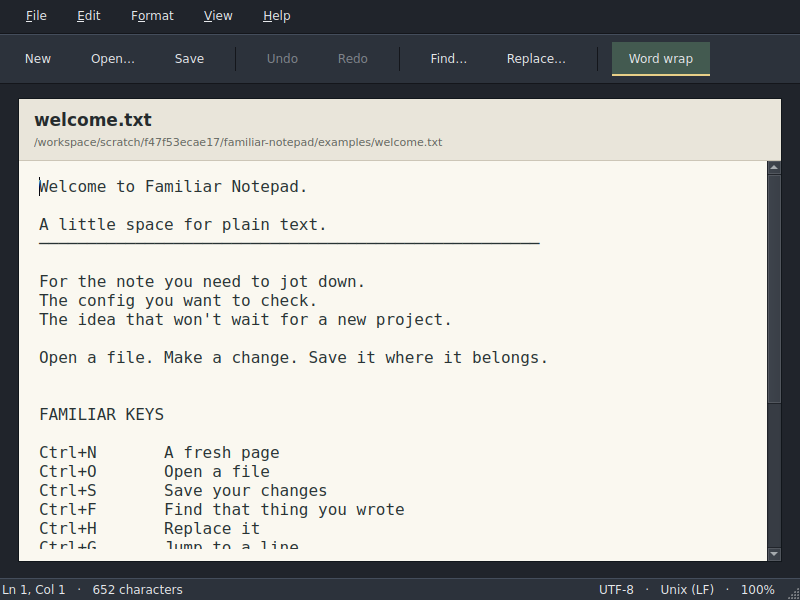
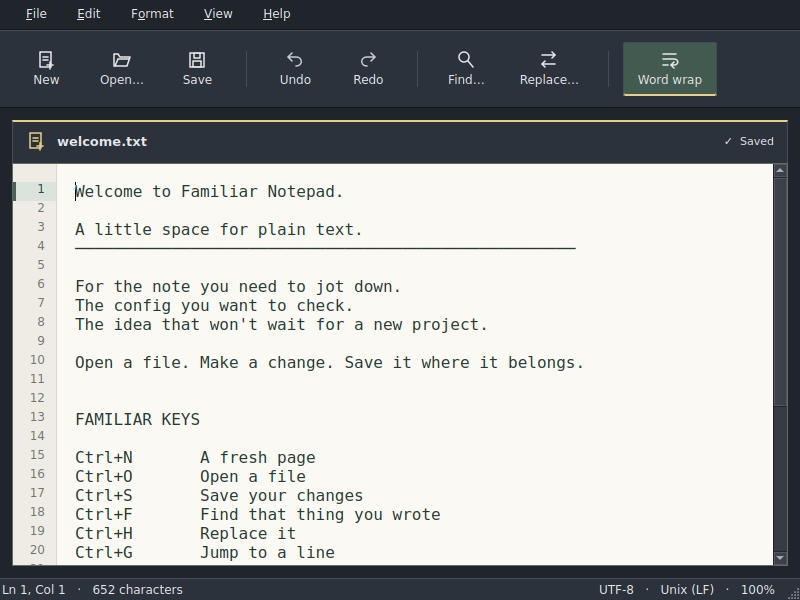
Polish Familiar Notepad controls and document states (#2)

Changed region(s): [[0.0, 0.0, 1.0, 0.96]]

diff --git a/src/window.cpp b/src/window.cpp
@@ -1,5 +1,7 @@
 #include "window.h"
 #include "editor.h"
+#include "icons.h"
+#include <QGridLayout>
 #include <QtConcurrent>
 #include <QApplication>
 #include <QActionGroup>
@@ -24,26 +26,26 @@
 Window::Window(bool readOnly) : readOnly_(readOnly) {
     resize(1120, 760); setMinimumSize(640, 400);
     setWindowIcon(QIcon(":/notepad.svg"));
-    auto *body = new QWidget; auto *layout = new QVBoxLayout(body); layout->setContentsMargins(18, 14, 18, 16); layout->setSpacing(0);
-    auto *header = new QWidget; header->setObjectName("documentHeader"); auto *headerLayout = new QVBoxLayout(header); headerLayout->setContentsMargins(16, 12, 16, 12);
+    auto *body = new QWidget; auto *layout = new QVBoxLayout(body); layout->setContentsMargins(12, 12, 12, 12); layout->setSpacing(0);
+    auto *header = new QWidget; header->setObjectName("documentHeader"); auto *headerLayout = new QHBoxLayout(header); headerLayout->setContentsMargins(14, 0, 14, 0); header->setFixedHeight(43);
     heading_ = new QLabel; heading_->setObjectName("documentTitle"); location_ = new QLabel; location_->setObjectName("documentPath");
-    heading_->setTextFormat(Qt::PlainText); location_->setTextFormat(Qt::PlainText);
-    location_->setTextInteractionFlags(Qt::TextSelectableByMouse); headerLayout->addWidget(heading_); headerLayout->addWidget(location_);
+    heading_->setMinimumWidth(0);heading_->setSizePolicy(QSizePolicy::Ignored,QSizePolicy::Preferred);heading_->setTextFormat(Qt::PlainText); location_->setTextFormat(Qt::PlainText);
+    location_->setMinimumWidth(140);location_->setAlignment(Qt::AlignRight|Qt::AlignVCenter);location_->setTextInteractionFlags(Qt::TextSelectableByMouse); auto *fileIcon = new QLabel; fileIcon->setPixmap(toolIcon("new", QColor("#e8cf87")).pixmap(20,20)); headerLayout->addWidget(fileIcon); headerLayout->addSpacing(5); headerLayout->addWidget(heading_,1); headerLayout->addWidget(location_);
     layout->addWidget(header);
     notice_ = new QLabel; notice_->setTextFormat(Qt::PlainText); notice_->setWordWrap(true); notice_->setObjectName("notice"); notice_->hide(); layout->addWidget(notice_);
-    findBar_ = new QWidget; auto *search = new QHBoxLayout(findBar_); search->setContentsMargins(10, 8, 10, 8);
+    findBar_ = new QWidget; auto *search = new QGridLayout(findBar_); findBar_->setObjectName("searchPanel"); search->setContentsMargins(10, 8, 10, 8);
     find_ = new QLineEdit; find_->setPlaceholderText("Find text"); find_->setAccessibleName("Find text"); replacement_ = new QLineEdit; replacement_->setPlaceholderText("Replace with"); replacement_->setAccessibleName("Replacement text");
     case_ = new QCheckBox("Case"); whole_ = new QCheckBox("Whole word");
-    search->addWidget(find_, 1); search->addWidget(replacement_, 1); search->addWidget(case_); search->addWidget(whole_);
-    auto button = [search, this](QString text, auto action) {auto *b = new QPushButton(text); search->addWidget(b); connect(b, &QPushButton::clicked, this, action); return b;};
-    button("Next", [this]{findNext();});
-    auto *all = button("Replace all", [this]{auto flags = QTextDocument::FindFlags{}; if(case_->isChecked()) flags |= QTextDocument::FindCaseSensitively; if(whole_->isChecked()) flags |= QTextDocument::FindWholeWords; int n = editor_->replaceAll(find_->text(), replacement_->text(), flags); statusBar()->showMessage(QString("Replaced %1 occurrence(s)").arg(n), 4000);}); all->setObjectName("replaceAll");
-    button("Close", [this]{findBar_->hide(); editor_->setFocus();});
+    search->addWidget(find_,0,0,1,2); search->addWidget(replacement_,1,0,1,2); search->addWidget(case_,2,0); search->addWidget(whole_,2,1); search->setColumnStretch(1,1);
+    auto button = [search, this](QString text, auto action) {auto *b = new QPushButton(text); b->setMinimumWidth(80); connect(b, &QPushButton::clicked, this, action); return b;};
+    search->addWidget(button("Previous", [this]{findNext(true);}),0,2); search->addWidget(button("Next", [this]{findNext();}),0,3);
+    auto *all = button("Replace all", [this]{auto flags = QTextDocument::FindFlags{}; if(case_->isChecked()) flags |= QTextDocument::FindCaseSensitively; if(whole_->isChecked()) flags |= QTextDocument::FindWholeWords; int n = editor_->replaceAll(find_->text(), replacement_->text(), flags); statusBar()->showMessage(QString("Replaced %1 occurrence(s)").arg(n), 4000);}); all->setObjectName("replaceAll"); search->addWidget(all,1,2,1,2);
+    search->addWidget(button("Close", [this]{findBar_->hide(); editor_->setFocus();}),2,3);
     layout->addWidget(findBar_); findBar_->hide();
     editor_ = new Editor; editor_->setReadOnly(readOnly_); layout->addWidget(editor_, 1); setCentralWidget(body);
     auto *file = menuBar()->addMenu("&File"); auto *edit = menuBar()->addMenu("&Edit"); auto *formatMenu = menuBar()->addMenu("F&ormat"); auto *view = menuBar()->addMenu("&View"); auto *help = menuBar()->addMenu("&Help");
-    auto *bar = addToolBar("Main toolbar"); bar->setMovable(false); bar->setToolButtonStyle(Qt::ToolButtonTextOnly);
-    auto add = [this](QMenu *menu, QString text, QKeySequence key, auto slot) {auto *a = menu->addAction(text); a->setShortcut(key); connect(a, &QAction::triggered, this, slot); return a;};
+    auto *bar = addToolBar("Main toolbar"); bar->setMovable(false); bar->setToolButtonStyle(Qt::ToolButtonTextUnderIcon); bar->setIconSize(QSize(20,20));
+    auto add = [this](QMenu *menu, QString text, QKeySequence key, auto slot) {auto *a = menu->addAction(text); a->setShortcut(key); a->setToolTip(text.remove('&')+(key.isEmpty()?QString():"  "+key.toString(QKeySequence::NativeText))); connect(a, &QAction::triggered, this, slot); return a;};
     bar->addAction(add(file, "&New", QKeySequence::New, [this]{guard([this]{newFile();});}));
     bar->addAction(add(file, "&Open…", QKeySequence::Open, [this]{chooseOpen();}));
     saveAction_ = add(file, "&Save", QKeySequence::Save, [this]{save();}); bar->addAction(saveAction_);
@@ -69,6 +71,9 @@ Window::Window(bool readOnly) : readOnly_(readOnly) {
     for(int i=0;i<3;++i){auto value=Note::Ending(i);auto *a=eol->addAction(Note::endingName(value));a->setCheckable(true);a->setData(i);eolGroup->addAction(a);connect(a,&QAction::triggered,this,[this,value]{if(readOnly_||busy_)return;file_.ending=value;formatDirty_=true;updateStatus();draftTimer_->start();});}
     connect(eol,&QMenu::aboutToShow,this,[this,eolGroup]{for(auto *a:eolGroup->actions())a->setChecked(a->data().toInt()==int(file_.ending));});
     add(view,"Zoom &in",QKeySequence::ZoomIn,[this]{if(editor_->font().pointSize()<40)editor_->zoomIn();updateStatus();}); add(view,"Zoom &out",QKeySequence::ZoomOut,[this]{if(editor_->font().pointSize()>8)editor_->zoomOut();updateStatus();}); add(view,"&Reset zoom",QKeySequence("Ctrl+0"),[this]{auto f=editor_->font();f.setPointSize(fontSize_);editor_->setFont(f);updateStatus();});
+    auto *lines = add(view, "&Line numbers", {}, [this]{editor_->setLineNumbersVisible(!editor_->lineNumbersVisible());}); lines->setCheckable(true);lines->setChecked(true);
+    const QStringList glyphs{"new","open","save","undo","redo","find","replace","wrap"}; int glyphIndex=0;
+    for(auto *action:bar->actions())if(!action->isSeparator()){const auto glyph=glyphs.value(glyphIndex++);action->setProperty("familiarGlyph",glyph);action->setIcon(toolIcon(glyph,palette().color(QPalette::ButtonText)));}
     add(help,"&About Familiar Notepad",{},[this]{QMessageBox::about(this,"Familiar Notepad",QString("Familiar Notepad %1\n\nA little space for plain text.\nNative Qt. Local files. No account.\n\nMIT licence · Tom Ballard").arg(NOTEPAD_VERSION));});
     position_=new QLabel;format_=new QLabel;statusBar()->addWidget(position_,1);statusBar()->addPermanentWidget(format_);
     draftTimer_=new QTimer(this);draftTimer_->setSingleShot(true);draftTimer_->setInterval(1000);connect(draftTimer_,&QTimer::timeout,this,[this]{writeDraft();});
@@ -83,13 +88,13 @@ bool Window::dirty()const{return editor_->document()->isModified()||formatDirty_
 void Window::updateStatus(){
     const auto name=file_.path.isEmpty()?QString("Untitled"):QFileInfo(file_.path).fileName();
     setWindowTitle(QString("%1%2 — Familiar Notepad%3").arg(dirty()?"* ":"",name,readOnly_?" [read only]":""));
-    heading_->setText(name+(dirty()?"  •":""));location_->setText(file_.path.isEmpty()?"A little space for plain text.":QFontMetrics(location_->font()).elidedText(file_.path,Qt::ElideMiddle,qMax(300,width()-90)));location_->setToolTip(file_.path);
+    heading_->setText(QFontMetrics(heading_->font()).elidedText(name,Qt::ElideMiddle,qMax(160,width()-230))); heading_->setToolTip(file_.path);location_->setText(busy_?"Working…":readOnly_?"Read only":dirty()?"●  Unsaved changes":file_.path.isEmpty()?"New document":"✓  Saved");location_->setToolTip(file_.path);
     auto c=editor_->textCursor();position_->setText(QString("Ln %1, Col %2   ·   %3 characters").arg(c.blockNumber()+1).arg(c.positionInBlock()+1).arg(editor_->document()->characterCount()-1));
     format_->setText(QString("%1   ·   %2   ·   %3%").arg(Note::encodingName(file_.encoding),Note::endingName(file_.ending)).arg(qRound(editor_->font().pointSizeF()/fontSize_*100)));
     saveAction_->setEnabled(!readOnly_&&!busy_);
 }
 void Window::report(const QString &message){QMessageBox::warning(this,"Familiar Notepad",message);}
-void Window::run(std::function<Note::Result()> work,std::function<void(const Note::Result&)> done){if(busy_)return;busy_=true;completion_=std::move(done);editor_->setReadOnly(true);menuBar()->setEnabled(false);for(auto *bar:findChildren<QToolBar*>())bar->setEnabled(false);watcher_.setFuture(QtConcurrent::run(std::move(work)));}
+void Window::run(std::function<Note::Result()> work,std::function<void(const Note::Result&)> done){if(busy_)return;busy_=true;completion_=std::move(done);editor_->setReadOnly(true);updateStatus();menuBar()->setEnabled(false);for(auto *bar:findChildren<QToolBar*>())bar->setEnabled(false);watcher_.setFuture(QtConcurrent::run(std::move(work)));}
 void Window::install(const Note::File &file){file_=file;editor_->setPlainText(file.text);editor_->document()->setModified(false);formatDirty_=false;draftTimer_->stop();recovery_.clear();notice_->hide();updateStatus();}
 void Window::newFile(){install({});editor_->setFocus();}
 void Window::guard(std::function<void()> next){if(busy_)return;if(!dirty()){next();return;}auto choice=QMessageBox::question(this,"Save changes?","Save changes to this document before continuing?",QMessageBox::Save|QMessageBox::Discard|QMessageBox::Cancel,QMessageBox::Save);if(choice==QMessageBox::Save)save(false,std::move(next));else if(choice==QMessageBox::Discard){next();}}
@@ -111,3 +116,8 @@ void Window::writeDraft(){if(!dirty()||readOnly_)return;auto draft=file_;draft.t
 void Window::recover(){auto paths=recovery_.available();if(paths.isEmpty()){statusBar()->showMessage("No recovery drafts available",3000);return;}QStringList labels;for(const auto&p:paths){auto r=recovery_.read(p);labels<<(r.ok?(r.file.path.isEmpty()?"Untitled":r.file.path):"Unreadable draft")+" — "+QFileInfo(p).lastModified().toString("yyyy-MM-dd HH:mm:ss")+" ["+QFileInfo(p).baseName().left(8)+"]";}bool ok;auto chosen=QInputDialog::getItem(this,"Recover a draft","Restore edits without overwriting the original file:",labels,0,false,&ok);if(!ok)return;int index=labels.indexOf(chosen);auto r=recovery_.read(paths[index]);if(!r.ok){report(r.error);return;}install(r.file);editor_->document()->setModified(true);QString error;auto draft=file_;draft.text=editor_->text();if(recovery_.write(draft,&error))recovery_.remove(paths[index]);else report("Recovered text is open, but a new recovery snapshot could not be saved: "+error);
     notice_->setText("Recovered draft. Review it, then Save or Save as. The original file has not been changed.");notice_->show();}
 void Window::closeEvent(QCloseEvent *event){if(allowClose_||(!busy_&&!dirty())){draftTimer_->stop();recovery_.clear();event->accept();return;}event->ignore();if(busy_){statusBar()->showMessage("Please wait for the file operation to finish.",3000);return;}guard([this]{draftTimer_->stop();recovery_.clear();allowClose_=true;QTimer::singleShot(0,this,[this]{close();});});}
+
+void Window::changeEvent(QEvent *event) {
+    QMainWindow::changeEvent(event);
+    if(event->type()==QEvent::PaletteChange)for(auto *action:findChildren<QAction*>()){const auto glyph=action->property("familiarGlyph").toString();if(!glyph.isEmpty())action->setIcon(toolIcon(glyph,palette().color(QPalette::ButtonText)));}
+}

diff --git a/src/theme.cpp b/src/theme.cpp
@@ -38,46 +38,32 @@ void applyTheme(QApplication *app) {
     const QString selection = colours["selection"].name();
     const QString foreground = colours["foreground"].name();
     const QString css = QString(R"css(
-        QMainWindow { background: %1; }
-        QWidget#documentHeader { background:#e9e5da; border:1px solid #11161b; border-bottom:1px solid #ccc6b7; }
-        QLabel#documentTitle { color:#252b2d; font-size:17px; font-weight:600; }
-        QLabel#documentPath { color:#62655f; font-size:11px; }
-        QPlainTextEdit#paper { background:#faf8f0; color:#283334; selection-background-color:#cddccc; selection-color:#172221; border:1px solid #11161b; border-top:none; }
-        QLabel#notice { background:#e8cf87; color:#29281f; padding:10px; }
-        QLineEdit { padding:6px; border:1px solid %3; }
-        QPushButton { padding:6px 10px; }
-        QToolButton:checked { background:%5; border-bottom:2px solid #e8cf87; }
-
-        QMenuBar { background:%1; padding:5px 8px; border-bottom:1px solid %4; }
+        QMainWindow { background:%1; }
+        QMenuBar { background:%1; padding:3px 8px; border-bottom:1px solid %4; }
         QMenuBar::item { padding:5px 12px; }
         QMenuBar::item:selected { background:%5; }
-        QToolBar { background:%2; spacing:6px; padding:7px 8px; border-top:1px solid %3; border-bottom:1px solid %4; }
-        QToolBar::separator { background:%4; width:1px; margin:5px 8px; }
-        QToolButton { padding:7px 10px; border-radius:0; border:1px solid transparent; }
-        QToolButton:hover { background:%5; border:1px solid %3; }
-        QToolButton:focus { border:1px dashed %6; }
-        QToolButton:pressed { border-top:1px solid %4; border-left:1px solid %4; background:%1; }
-        QToolButton#qt_toolbar_ext_button { padding:0; min-width:20px; border:1px solid %3; }
-        QWidget#toolbox { background:%2; border-right:1px solid %4; }
-        QToolButton#drawingTool { background:#30373d; padding:4px; border-radius:0; border-top:1px solid #697278; border-left:1px solid #697278; border-bottom:1px solid #11161b; border-right:1px solid #11161b; }
-        QToolButton#drawingTool:hover { background:#465058; }
-        QToolButton#drawingTool:checked { background:#43554e; border-top:1px solid #11161b; border-left:3px solid #e8cf87; border-bottom:1px solid #94a89e; border-right:1px solid #94a89e; }
-        QToolButton#drawingTool:focus { border:2px solid #e8cf87; }
-        QLabel#sectionLabel, QLabel#strokeLabel { color:%6; font-size:10px; font-weight:600; letter-spacing:2px; }
-        QLabel#brandLabel { font-size:14px; font-weight:600; }
-        QLabel#toolName { font-size:12px; font-weight:600; padding:2px; }
-        QLabel#strokePreview { border:2px inset %3; }
-        QLabel#quietLabel, QLabel#shortcutHint, QLabel#paletteHint { font-size:11px; padding:4px; }
-        QScrollArea#canvasWell { background:%4; border:2px inset %3; padding:12px; }
-        QSpinBox { background:%1; padding:5px 7px; border:1px solid %3; border-radius:2px; min-width:58px; }
-        QSpinBox:focus { border:1px solid %6; }
-        QSpinBox:disabled { color:#80858c; border-color:%4; }
-        QCheckBox { padding:5px; }
-        QCheckBox:disabled { color:#80858c; }
-        QStatusBar { background:%2; border-top:1px solid %3; padding:3px 8px; }
+        QToolBar { background:%2; spacing:4px; padding:8px 12px; border-top:1px solid %3; border-bottom:1px solid %4; }
+        QToolBar::separator { background:%3; width:1px; margin:9px 10px; }
+        QToolButton { color:%6; min-width:48px; padding:5px 8px; border-radius:2px; border:1px solid transparent; }
+        QToolButton:hover { background:%5; border-color:%3; }
+        QToolButton:checked { background:%5; border:1px solid %3; border-bottom:2px solid #e8cf87; }
+        QToolButton:focus { border:1px dashed #e8cf87; }
+        QToolButton:pressed { background:%1; border:1px solid %4; }
+        QToolButton#qt_toolbar_ext_button { min-width:16px; padding:0; }
+        QWidget#documentHeader { background:%2; border:1px solid %3; border-top:2px solid #e8cf87; border-bottom:none; }
+        QLabel#documentTitle { color:%6; font-size:13px; font-weight:600; }
+        QLabel#documentPath { color:%6; font-size:11px; }
+        QPlainTextEdit#paper { background:#faf9f3; color:#263932; selection-background-color:#ceded2; selection-color:#172b22; border:1px solid #626b64; }
+        QWidget#searchPanel { background:%2; border:1px solid %3; border-top:none; }
+        QLabel#notice { background:#e8cf87; color:#29281f; padding:10px; }
+        QLineEdit { background:%1; color:%6; padding:7px 9px; border:1px solid %3; border-radius:2px; }
+        QLineEdit:focus { border-color:#e8cf87; }
+        QPushButton { padding:7px 12px; border:1px solid %3; border-radius:2px; background:%2; }
+        QPushButton:hover { background:%5; }
+        QPushButton:focus { border:1px solid #e8cf87; }
+        QCheckBox { padding:3px; }
+        QStatusBar { background:%2; border-top:1px solid %3; padding:6px 12px; font-size:11px; }
         QStatusBar::item { border:none; }
-        QSlider::groove:horizontal { height:3px; background:%4; }
-        QSlider::handle:horizontal { background:%6; width:9px; margin:-5px 0; border:1px solid %3; border-radius:1px; }
     )css").arg(base, panel, edge, shadow, selection, foreground);
     if (app->styleSheet() != css) app->setStyleSheet(css);
 }

diff --git a/src/editor.cpp b/src/editor.cpp
@@ -1,14 +1,31 @@
 #include "editor.h"
 #include <QFontDatabase>
 #include <QTextCursor>
-Editor::Editor(QWidget *parent) : QPlainTextEdit(parent) {
+#include <QPainter>
+#include <QTextBlock>
+#include <QScrollBar>
+#include <QEvent>
+
+class NumberMargin : public QWidget {
+public:
+    explicit NumberMargin(Editor *editor) : QWidget(editor), editor_(editor) {setAccessibleName("Line numbers");}
+protected:
+    void paintEvent(QPaintEvent *event) override {editor_->paintNumbers(event);}
+private:
+    Editor *editor_;
+};
+Editor::Editor(QWidget *parent) : QPlainTextEdit(parent), numbers_(new NumberMargin(this)) {
     setObjectName("paper");
     setAccessibleName("Document text");
     auto font = QFontDatabase::systemFont(QFontDatabase::FixedFont); font.setPointSize(12); setFont(font);
     setTabStopDistance(fontMetrics().horizontalAdvance(' ') * 4);
     setLineWrapMode(QPlainTextEdit::WidgetWidth);
     setFrameShape(QFrame::NoFrame);
-    setViewportMargins(16, 12, 16, 12);
+    document()->setDocumentMargin(18);
+    connect(this, &QPlainTextEdit::blockCountChanged, this, [this]{updateMargins();});
+    connect(this, &QPlainTextEdit::updateRequest, this, [this](const QRect &, int){numbers_->update();});
+    connect(this, &QPlainTextEdit::cursorPositionChanged, this, [this]{numbers_->update();});
+    updateMargins();
 }
 int Editor::replaceAll(const QString &needle, const QString &replacement, QTextDocument::FindFlags flags) {
     if (needle.isEmpty() || isReadOnly()) return 0;
@@ -19,3 +36,40 @@ int Editor::replaceAll(const QString &needle, const QString &replacement, QTextD
 }
 
 QString Editor::text() const {auto result = document()->toRawText(); result.replace(QChar(0x2029), QChar('\n')); return result;}
+
+int Editor::marginWidth() const {
+    int digits = QString::number(qMax(1, blockCount())).size();
+    return numbersVisible_ ? 24 + fontMetrics().horizontalAdvance('9') * qMax(2, digits) : 0;
+}
+void Editor::updateMargins() {
+    const int width = marginWidth();
+    setViewportMargins(width, 0, 0, 0);
+    numbers_->setVisible(numbersVisible_);
+    numbers_->setGeometry(contentsRect().left(), contentsRect().top(), width, contentsRect().height());
+    numbers_->update();
+}
+void Editor::setLineNumbersVisible(bool visible) {numbersVisible_ = visible; updateMargins();}
+void Editor::resizeEvent(QResizeEvent *event) {QPlainTextEdit::resizeEvent(event); updateMargins();}
+void Editor::changeEvent(QEvent *event) {
+    QPlainTextEdit::changeEvent(event);
+    if (event->type() == QEvent::FontChange) {setTabStopDistance(fontMetrics().horizontalAdvance(' ') * 4); updateMargins();}
+}
+void Editor::paintNumbers(QPaintEvent *event) {
+    QPainter painter(numbers_);
+    painter.fillRect(event->rect(), QColor("#eeece4"));
+    painter.setPen(QColor("#d8d8ce"));
+    painter.drawLine(numbers_->width()-1, event->rect().top(), numbers_->width()-1, event->rect().bottom());
+    auto block = firstVisibleBlock();
+    int number = block.blockNumber();
+    qreal top = blockBoundingGeometry(block).translated(contentOffset()).top();
+    while (block.isValid() && top <= event->rect().bottom()) {
+        const qreal height = blockBoundingRect(block).height();
+        if (block.isVisible() && top + height >= event->rect().top()) {
+            const bool active = number == textCursor().blockNumber();
+            if(active) {painter.fillRect(0, qRound(top), numbers_->width()-1, fontMetrics().height(), QColor("#dbe4dc"));painter.fillRect(0,qRound(top),3,fontMetrics().height(),QColor("#456357"));}
+            painter.setPen(QColor(active ? "#294c3e" : "#71766f"));
+            painter.drawText(0,qRound(top),numbers_->width()-12,fontMetrics().height(),Qt::AlignRight,QString::number(number+1));
+        }
+        top += height; block = block.next(); ++number;
+    }
+}

diff --git a/tests/tests.cpp b/tests/tests.cpp
@@ -21,6 +21,7 @@ private slots:
     void recovery(){QTemporaryDir dir;QString path;{Recovery active(dir.path());Note::File f;f.path="/tmp/original.txt";f.text="Unsaved café";QString error;QVERIFY(active.write(f,&error));path=active.path();Recovery other(dir.path());QVERIFY(other.available().isEmpty());}Recovery next(dir.path());QCOMPARE(next.available().size(),1);auto r=next.read(path);QVERIFY(r.ok);QCOMPARE(r.file.text,QString("Unsaved café"));QVERIFY(next.remove(path));QVERIFY(next.available().isEmpty());}
     void widgetFileFlow(){QTemporaryDir dir;auto p=dir.filePath("real flow.txt");const auto original=QString::fromUtf8("nonbreaking: a b 🌍\nlast\n");auto r=Note::save(p,original,Note::Encoding::Utf16LE,Note::Ending::CRLF,{});QVERIFY(r.ok);Window w;w.show();w.openPath(p,2,2);QTRY_VERIFY(!w.busy());QVERIFY(w.openSucceeded());QCOMPARE(w.editor()->text(),original);QCOMPARE(w.editor()->textCursor().blockNumber(),1);w.editor()->moveCursor(QTextCursor::End);QTest::keyClicks(w.editor(),"extra");QVERIFY(w.editor()->document()->isModified());QAction *save=nullptr;for(auto *a:w.findChildren<QAction*>())if(a->text()=="&Save")save=a;QVERIFY(save);save->trigger();QTRY_VERIFY(!w.busy());QVERIFY(!w.editor()->document()->isModified());auto saved=Note::load(p);QVERIFY(saved.ok);QCOMPARE(saved.file.text,original+"extra");QCOMPARE(saved.file.encoding,Note::Encoding::Utf16LE);QCOMPARE(saved.file.ending,Note::Ending::CRLF);QTest::keyClicks(w.editor()," pending");QTimer::singleShot(20,[]{auto *box=qobject_cast<QMessageBox*>(QApplication::activeModalWidget());if(box)box->button(QMessageBox::Cancel)->click();});QVERIFY(!w.close());QVERIFY(w.editor()->document()->isModified());w.editor()->document()->setModified(false);QVERIFY(w.close());}
     void readonlyInput(){Window w(true);w.show();bool found=false;for(auto *a:w.findChildren<QAction*>())if(a->text()=="&Recover drafts…"){found=true;QVERIFY(!a->isEnabled());}QVERIFY(found);QTest::keyClicks(w.editor(),"ignored");QCOMPARE(w.editor()->text(),QString());}
+    void gutterAndZoom(){Editor e;e.resize(640,400);e.show();const QString sample=QString("A long wrapped line ").repeated(25)+"\nSecond line\n";e.setPlainText(sample);const int withNumbers=e.viewport()->width();e.setLineNumbersVisible(false);QVERIFY(e.viewport()->width()>withNumbers);e.setLineNumbersVisible(true);QCOMPARE(e.viewport()->width(),withNumbers);e.zoomIn(3);QCOMPARE(e.text(),sample);e.moveCursor(QTextCursor::End);e.ensureCursorVisible();QCOMPARE(e.textCursor().blockNumber(),2);e.setLineWrapMode(QPlainTextEdit::NoWrap);QCOMPARE(e.text(),sample);}
     void replacementUndo(){Editor e;e.setPlainText("cat cat scatter cat");QCOMPARE(e.replaceAll("cat","dog",QTextDocument::FindWholeWords),3);QCOMPARE(e.toPlainText(),QString("dog dog scatter dog"));e.undo();QCOMPARE(e.toPlainText(),QString("cat cat scatter cat"));QCOMPARE(e.replaceAll("cat","catcat"),4);e.undo();QCOMPARE(e.toPlainText(),QString("cat cat scatter cat"));e.setReadOnly(true);QCOMPARE(e.replaceAll("cat","dog"),0);}
 };
 QTEST_MAIN(Tests)

diff --git a/tests/preview.cpp b/tests/preview.cpp
@@ -3,6 +3,33 @@
 #include "theme.h"
 #include <QApplication>
 #include <QTimer>
-#include <QFileInfo>
 #include <QAction>
-int main(int argc,char**argv){QApplication app(argc,argv);app.setApplicationName("familiar-notepad-preview");app.setStyle("Fusion");applyTheme(&app);if(argc<3)return 2;Window window;window.resize(1120,760);window.show();window.openPath(QString::fromLocal8Bit(argv[1]));QTimer poll;QObject::connect(&poll,&QTimer::timeout,&app,[&]{if(window.busy())return;if(!window.openSucceeded()){app.exit(1);return;}window.editor()->setFocus();window.grab().save(QString::fromLocal8Bit(argv[2]));if(argc>3){window.resize(800,600);QTimer::singleShot(100,&app,[&]{window.grab().save(QString::fromLocal8Bit(argv[3]));if(argc>4){for(auto *a:window.findChildren<QAction*>())if(a->text()=="&Replace…")a->trigger();QTimer::singleShot(100,&app,[&]{window.grab().save(QString::fromLocal8Bit(argv[4]));app.quit();});}else app.quit();});poll.stop();}else app.quit();});poll.start(150);QTimer::singleShot(10000,&app,[&]{app.exit(3);});return app.exec();}
+int main(int argc,char**argv) {
+    QApplication app(argc,argv);
+    app.setApplicationName("familiar-notepad-preview");app.setStyle("Fusion");applyTheme(&app);
+    if(argc<3)return 2;
+    Window window;window.resize(qEnvironmentVariableIntValue("NOTEPAD_PREVIEW_NARROW")?640:1120,760);
+    window.show();window.openPath(QString::fromLocal8Bit(argv[1]));
+    QTimer poll;
+    QObject::connect(&poll,&QTimer::timeout,&app,[&]{
+        if(window.busy())return;
+        poll.stop();
+        if(!window.openSucceeded()){app.exit(1);return;}
+        window.editor()->setFocus();
+        if(qEnvironmentVariableIsSet("NOTEPAD_PREVIEW_DIRTY")) {
+            window.editor()->moveCursor(QTextCursor::End);window.editor()->insertPlainText("\nOne more thought.");
+        }
+        QTimer::singleShot(100,&app,[&]{
+            if(!window.grab().save(QString::fromLocal8Bit(argv[2]))){app.exit(2);return;}
+            if(argc<=3){app.exit(0);return;}
+            window.resize(800,600);
+            QTimer::singleShot(100,&app,[&]{
+                if(!window.grab().save(QString::fromLocal8Bit(argv[3]))){app.exit(2);return;}
+                if(argc<=4){app.exit(0);return;}
+                for(auto *a:window.findChildren<QAction*>())if(a->text()=="&Replace…")a->trigger();
+                QTimer::singleShot(100,&app,[&]{app.exit(window.grab().save(QString::fromLocal8Bit(argv[4]))?0:2);});
+            });
+        });
+    });
+    poll.start(150);QTimer::singleShot(10000,&app,[&]{app.exit(3);});return app.exec();
+}

diff --git a/src/icons.h b/src/icons.h
@@ -1,0 +1,18 @@
+#pragma once
+#include <QIcon>
+#include <QPainter>
+#include <QPainterPath>
+#include <QPalette>
+// Small authored vector glyphs, rendered at device-independent 2x resolution.
+inline QIcon toolIcon(const QString &name, const QColor &ink) {
+    QPixmap pixmap(40,40); pixmap.fill(Qt::transparent); pixmap.setDevicePixelRatio(2);
+    QPainter p(&pixmap); p.setRenderHint(QPainter::Antialiasing); p.setPen(QPen(ink,1.5,Qt::SolidLine,Qt::RoundCap,Qt::RoundJoin));
+    if(name=="new") {p.drawRect(QRectF(4,2,11,15));p.drawLine(7,7,12,7);p.drawLine(7,10,12,10);p.drawLine(14,12,14,19);p.drawLine(11,15,17,15);}
+    else if(name=="open") {QPainterPath a;a.moveTo(2,6);a.lineTo(2,16);a.lineTo(15,16);a.lineTo(18,7);a.lineTo(8,7);a.lineTo(6,4);a.lineTo(2,4);a.closeSubpath();p.drawPath(a);p.drawLine(3,16,6,9);p.drawLine(6,9,17,9);}
+    else if(name=="save") {p.drawRect(QRectF(3,3,14,14));p.drawRect(QRectF(7,3,6,5));p.drawRect(QRectF(6,11,8,6));}
+    else if(name=="find") {p.drawEllipse(QRectF(3,2,10,10));p.drawLine(12,11,17,17);}
+    else if(name=="replace") {p.drawLine(3,5,16,5);p.drawLine(13,2,16,5);p.drawLine(13,8,16,5);p.drawLine(16,14,3,14);p.drawLine(6,11,3,14);p.drawLine(6,17,3,14);}
+    else if(name=="wrap") {p.drawLine(3,4,16,4);p.drawLine(3,15,8,15);QPainterPath a;a.moveTo(3,9);a.lineTo(14,9);a.cubicTo(19,9,19,15,14,15);a.lineTo(11,15);p.drawPath(a);p.drawLine(14,12,11,15);p.drawLine(14,18,11,15);}
+    else {if(name=="redo"){p.translate(20,0);p.scale(-1,1);}QPainterPath a;a.moveTo(4,7);a.lineTo(11,7);a.cubicTo(18,7,18,16,11,16);p.drawPath(a);p.drawLine(7,3,3,7);p.drawLine(7,11,3,7);}
+    return QIcon(pixmap);
+}

diff --git a/src/editor.h b/src/editor.h
@@ -5,4 +5,15 @@ public:
     explicit Editor(QWidget *parent = nullptr);
     QString text() const;
     int replaceAll(const QString &needle, const QString &replacement, QTextDocument::FindFlags flags = {});
+    void setLineNumbersVisible(bool visible);
+    bool lineNumbersVisible() const { return numbersVisible_; }
+    void paintNumbers(QPaintEvent *event);
+protected:
+    void resizeEvent(QResizeEvent *event) override;
+    void changeEvent(QEvent *event) override;
+private:
+    QWidget *numbers_;
+    bool numbersVisible_ = true;
+    int marginWidth() const;
+    void updateMargins();
 };

diff --git a/src/window.h b/src/window.h
@@ -20,6 +20,7 @@ public:
     bool openSucceeded() const {return opened_;}
 protected:
     void closeEvent(QCloseEvent *event) override;
+    void changeEvent(QEvent *event) override;
 private:
     Editor *editor_;
     QLabel *heading_, *location_, *position_, *format_, *notice_;

diff --git a/docs/VERIFICATION.md b/docs/VERIFICATION.md
@@ -59,3 +59,11 @@ The empty `tcballard/omarchy-apps-familiar-notepad` repository was initialized w
 Import review fixed two edge cases: recovery is disabled in read-only windows so a draft cannot be consumed into an unsaveable buffer, and CLI option detection stops at `--`, so filenames such as `--help` open normally. `--help-all` also works without a display. The final CMake build and CTest suite passed again (10 Qt Test results). A subprocess probe confirmed the option-like filename starts a GUI and remains open until the test terminates it; display-free `--help-all` exited 0.
 
 Mechanical preflight uses Git whitespace checks, file/mode inventory and Node content checks rather than the skill’s Python helper, in accordance with the no-Python requirement. Hosted CI results are recorded on the pull request and Actions run; live Omarchy acceptance remains outstanding.
+
+## UI taste pass (4 October 2026)
+
+Applied the previously downloaded Uizze ui-taste 0.2.0 polish/craft playbooks. The fresh npx retrieval failed with an invalid skill/archive response; the existing complete local skill was used.
+
+The document header is now a compact filename/status strip, with icon-and-label tools and explicit saved/unsaved/read-only/busy states. The editor has a toggleable line-number margin that follows scrolling, wrapping and font changes. Find/replace uses a grid with Previous/Next controls; filename paths remain available as tooltips. Palette changes repaint toolbar icons. No storage or CLI behavior changed.
+
+The Release build and offscreen CTest suite passed with 11 Qt Test results. The new case checks gutter toggling, zoom, wrapping, cursor line and text preservation. Current screenshots were captured from the updated implementation at 1120×760, 800×600 (including find/replace), 640×760 with dirty text, and 150% scale. They supersede the initial captures; SCREENSHOTS-SHA256SUMS identifies their bytes. Native desktop acceptance remains not run.

diff --git a/README.md b/README.md
@@ -29,12 +29,12 @@ The installer puts the executable, app launcher entry and icon under `~/.local`.
 
 - New, open, save and save as, with prompts for unsaved changes.
 - Undo/redo, cut/copy/paste, find next/previous and replace all as one undo operation.
-- Case-sensitive and whole-word search, line/column navigation, word wrap, font and zoom controls.
+- Case-sensitive and whole-word search, line/column navigation, optional line numbers, word wrap, font and zoom controls.
 - UTF-8, UTF-8 BOM and BOM-marked UTF-16 LE/BE; LF, CRLF and CR line endings. The status bar shows the current format; change it through Format.
 - Atomic saves, file-change checks and private recovery drafts. Recover interrupted work through File → Recover drafts.
 - Dark, theme-aware controls around a fixed warm paper surface. Omarchy's current `colors.toml` is checked every 2.5 seconds; there is a built-in fallback palette.
 
-One document per window. Launch another process for another file. This preview has no tabs, printing, rich text, syntax highlighting, line-number gutter or single-instance routing.
+One document per window. Launch another process for another file. This preview has no tabs, printing, rich text, syntax highlighting or single-instance routing.
 
 ## Terminal and agent use
 

diff --git a/CREDITS.md b/CREDITS.md
@@ -2,7 +2,7 @@
 
 Familiar Notepad is Copyright © 2026 Tom Ballard, MIT licensed; see LICENSE.
 
-The theme adapter and installer flow are adapted from Tom Ballard's Familiar Paint, MIT licensed. The notepad SVG and welcome text were authored for this project; they are covered by the project's MIT licence. No Microsoft artwork or source code is included.
+The theme adapter and installer flow are adapted from Tom Ballard's Familiar Paint, MIT licensed. The notepad SVG, toolbar vector glyphs and welcome text were authored for this project; they are covered by the project's MIT licence. No Microsoft artwork or source code is included.
 
 Qt is dynamically linked and is not bundled. Qt libraries are supplied by the user's distribution under their applicable Qt licences (including LGPL/GPL/commercial options); see https://www.qt.io/licensing/ and the distribution's Qt licence files.
 
